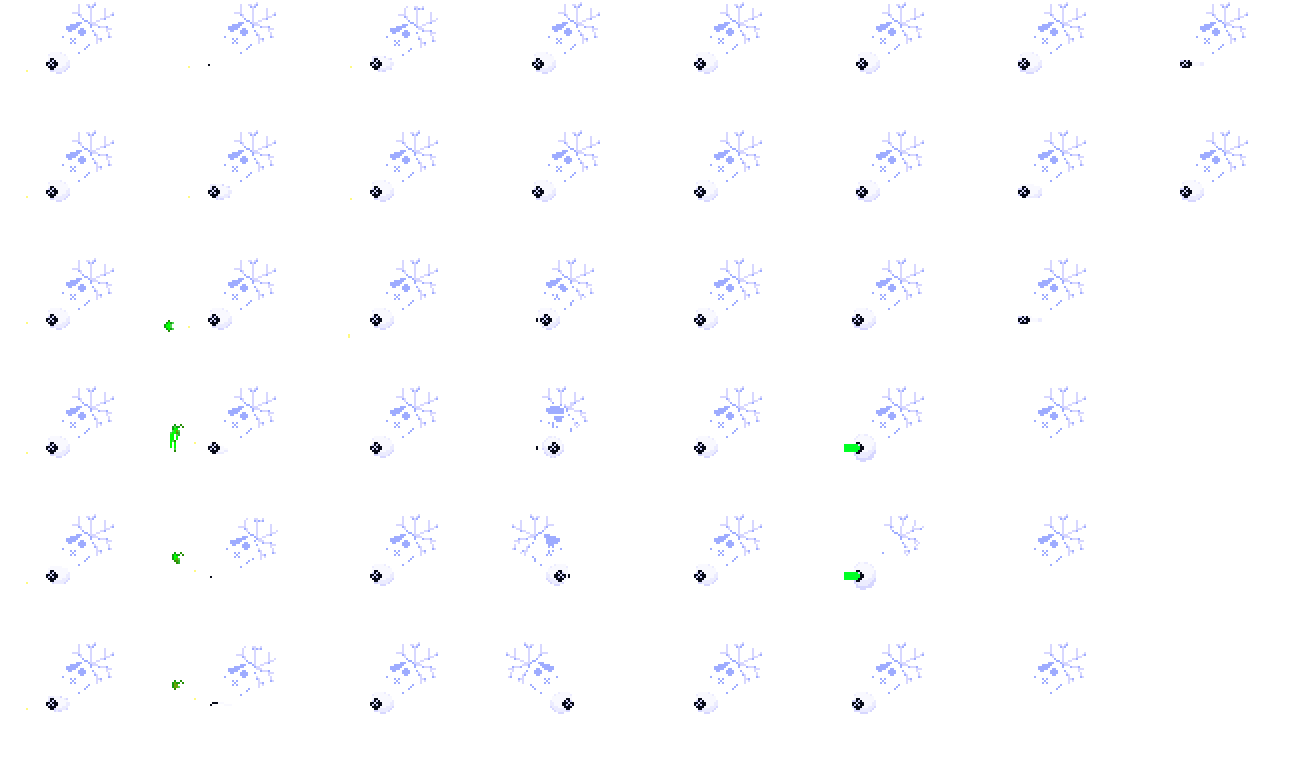
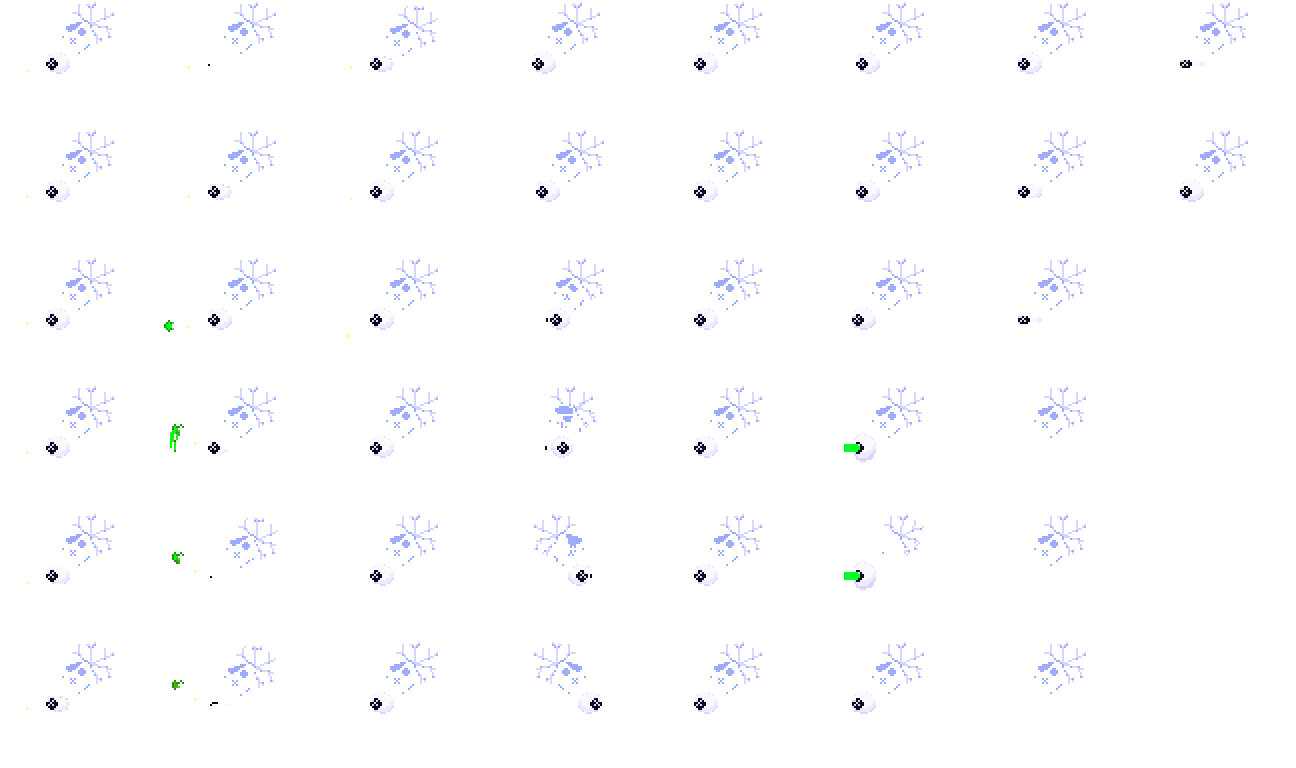
squi

diff --git a/NPCs/Monsters/GaleStreams/SpaceSquid.cs b/NPCs/Monsters/GaleStreams/SpaceSquid.cs
@@ -229,11 +229,27 @@ namespace AQMod.NPCs.Monsters.GaleStreams
 
                 case Phase_SnowflakeSpiral:
                 {
-                    var gotoPosition = new Vector2(125f * -npc.direction, 0f).RotatedBy(npc.ai[1] * 0.08f);
+                    var gotoPosition = new Vector2(205f * -npc.direction, 0f).RotatedBy(npc.ai[1] * 0.01f);
                     gotoPosition = Main.player[npc.target].Center + new Vector2(gotoPosition.X * 2f, gotoPosition.Y);
+                    if (Main.player[npc.target].position.X + Main.player[npc.target].width / 2f < npc.position.X + npc.width / 2f)
+                    {
+                        npc.direction = -1;
+                    }
+                    else
+                    {
+                        npc.direction = 1;
+                    }
+                    if (npc.spriteDirection != npc.direction)
+                    {
+                        if (frameIndex >= 24)
+                        {
+                            frameIndex = 19;
+                        }
+                    }
                     if ((int)npc.ai[1] == 0)
                     {
-                        npc.ai[1] = Main.rand.NextFloat(MathHelper.Pi * 12.56f);
+                        npc.ai[1] = Main.rand.NextFloat(MathHelper.Pi * 100f);
+                        npc.netUpdate = true;
                     }
                     npc.ai[2]++;
                     if (npc.ai[2] > 120f)
@@ -242,16 +258,21 @@ namespace AQMod.NPCs.Monsters.GaleStreams
                         if ((int)npc.ai[3] == 0)
                         {
                             npc.ai[3] = Main.rand.NextFloat(MathHelper.Pi * 6f);
+                            npc.netUpdate = true;
                         }
                         npc.ai[3]++;
-                        npc.velocity = Vector2.Lerp(npc.velocity, Vector2.Normalize(gotoPosition - npc.Center) * 4f, 0.1f);
-                        int timer = (int)(npc.ai[1] - 60) % 5;
+                        npc.velocity = Vector2.Lerp(npc.velocity, Vector2.Normalize(gotoPosition - npc.Center) * 4f, 0.006f);
+                        int timer = (int)(npc.ai[2] - 60) % 5;
                         if (timer == 0)
                         {
                             if (Main.netMode != NetmodeID.MultiplayerClient)
                             {
                                 var velocity = new Vector2(10f, 0f).RotatedBy(npc.ai[3] * 0.12f);
                                 Projectile.NewProjectile(npc.Center, velocity, ModContent.ProjectileType<Projectiles.Monster.GaleStreams.SpaceSquidSnowflake>(), 20, 1f, Main.myPlayer);
+                            }
+                            if (Main.netMode != NetmodeID.Server)
+                            {
+                                AQSound.Play(SoundType.Item, "Sounds/Item/Combo", npc.Center);
                             }
                         }
                         if (npc.ai[2] > 180f)
@@ -272,8 +293,9 @@ namespace AQMod.NPCs.Monsters.GaleStreams
                     else
                     {
                         npc.ai[1]++;
-                        npc.velocity = Vector2.Lerp(npc.velocity, Vector2.Normalize(gotoPosition - npc.Center) * 20f, 0.1f);
+                        npc.velocity = Vector2.Lerp(npc.velocity, Vector2.Normalize(gotoPosition - npc.Center) * 20f, 0.01f);
                     }
+                    npc.rotation = Utils.AngleLerp(npc.rotation, 0f, 0.1f);
                 }
                 break;
             }
@@ -390,15 +412,15 @@ namespace AQMod.NPCs.Monsters.GaleStreams
                     else
                     {
                         npc.frameCounter += 1.0d;
-                            if (npc.frameCounter > 4.0d)
+                        if (npc.frameCounter > 4.0d)
+                        {
+                            npc.frameCounter = 0.0d;
+                            frameIndex++;
+                            if (frameIndex > 7)
                             {
-                                npc.frameCounter = 0.0d;
-                                frameIndex++;
-                                if (frameIndex > 7)
-                                {
-                                    frameIndex = 0;
-                                }
+                                frameIndex = 0;
                             }
+                        }
                     }
                 }
                 break;
@@ -417,6 +439,50 @@ namespace AQMod.NPCs.Monsters.GaleStreams
                         if (frameIndex > 23)
                         {
                             frameIndex = 23;
+                        }
+                    }
+                }
+                break;
+
+                case Phase_SnowflakeSpiral:
+                {
+                    if (npc.direction != npc.spriteDirection)
+                    {
+                        if (frameIndex < 19)
+                        {
+                            frameIndex = 19;
+                        }
+                        npc.frameCounter += 1.0d;
+                        if (npc.frameCounter > 4.0d)
+                        {
+                            npc.frameCounter = 0.0d;
+                            frameIndex++;
+                            if (frameIndex > 19)
+                            {
+                                frameIndex = 24;
+                                npc.spriteDirection = npc.direction;
+                            }
+                        }
+                    }
+                    else
+                    {
+                        if (frameIndex < 24)
+                        {
+                            frameIndex = 24;
+                        }
+                        npc.frameCounter += 1.0d;
+                        if (frameIndex == 28)
+                        {
+                            frameIndex++;
+                        }
+                        if (npc.frameCounter > 4.0d)
+                        {
+                            npc.frameCounter = 0.0d;
+                            frameIndex++;
+                            if (frameIndex > 29)
+                            {
+                                frameIndex = 25;
+                            }
                         }
                     }
                 }
